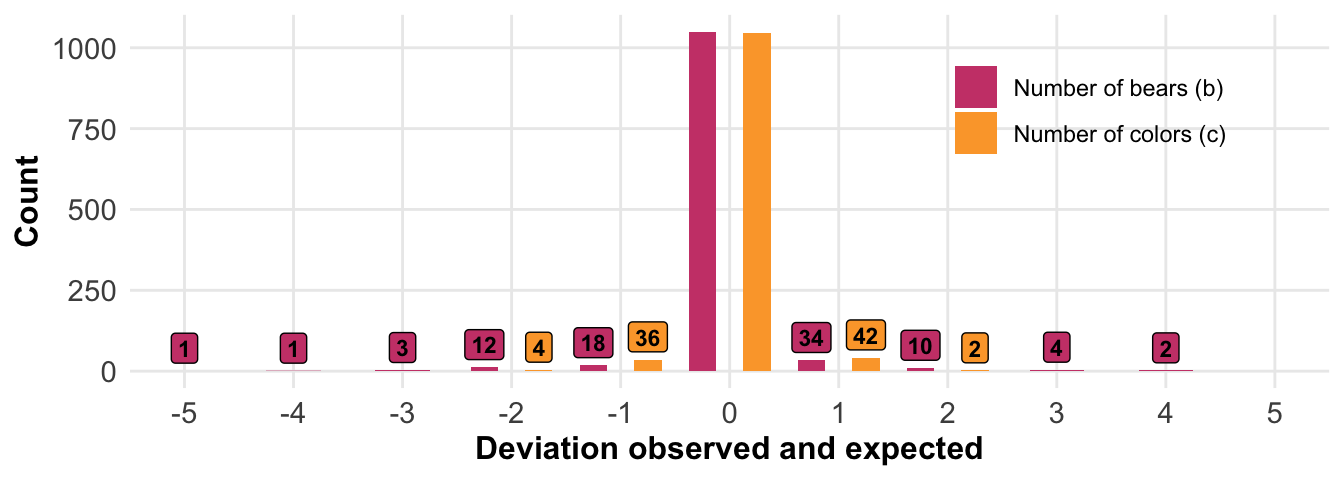
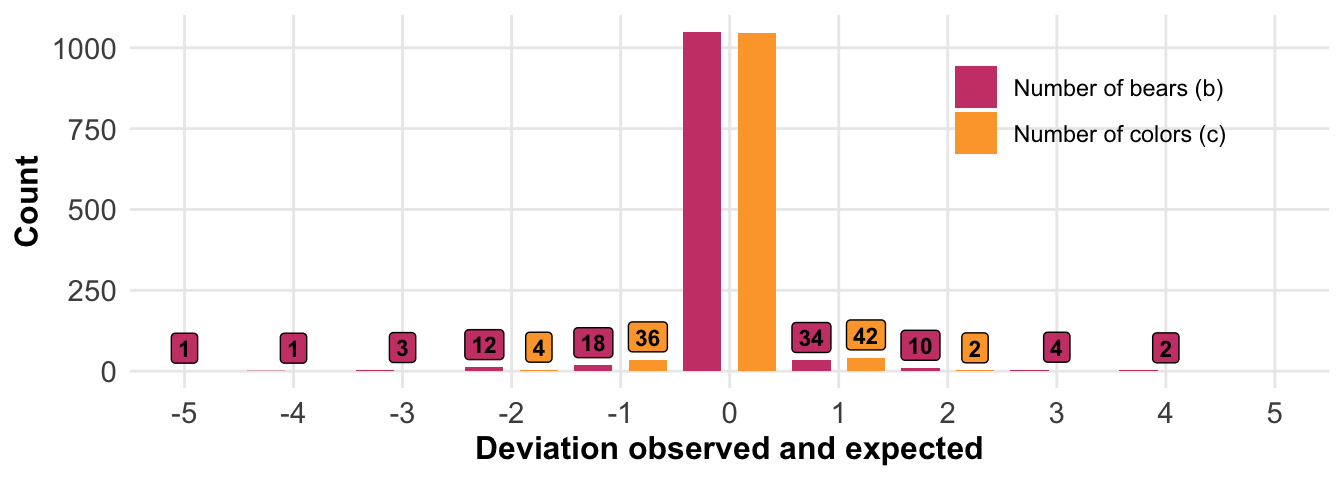
added

Changed region(s): [[0.4688, 0.0625, 0.6562, 0.7812]]

diff --git a/docs/interlude-I-gummibaers.html b/docs/interlude-I-gummibaers.html
@@ -454,7 +454,7 @@ window.Quarto = {
 </header>
 
 
-<p><em>Last modified on 04. October 2026 at 09:10:37</em></p>
+<p><em>Last modified on 04. October 2026 at 09:15:33</em></p>
 <blockquote class="blockquote">
 <p><em>“Gummy Bears! Bouncing here and there and everywhere; High adventure that’s beyond compare; They are the Gummy Bears.” — Gummy Bears Theme, Adventures of the Gummy Bears</em></p>
 </blockquote>
@@ -2426,7 +2426,7 @@ Table&nbsp;4.8: A not-so-serious table of rare events and their odds of happenin
 <span id="cb1-122"><a href="#cb1-122" aria-hidden="true" tabindex="-1"></a>  <span class="fu">ggplot</span>(<span class="fu">aes</span>(<span class="at">x =</span> values, <span class="at">fill =</span> ind)) <span class="sc">+</span></span>
 <span id="cb1-123"><a href="#cb1-123" aria-hidden="true" tabindex="-1"></a>  <span class="fu">theme_book</span>() <span class="sc">+</span></span>
 <span id="cb1-124"><a href="#cb1-124" aria-hidden="true" tabindex="-1"></a>  <span class="do">## facet_wrap(~ ind, scale = "free_x") +</span></span>
-<span id="cb1-125"><a href="#cb1-125" aria-hidden="true" tabindex="-1"></a>  <span class="fu">geom_bar</span>(<span class="at">position =</span> <span class="fu">position_dodge</span>(<span class="dv">1</span>), <span class="at">width =</span> <span class="fl">0.5</span>) <span class="sc">+</span></span>
+<span id="cb1-125"><a href="#cb1-125" aria-hidden="true" tabindex="-1"></a>  <span class="fu">geom_bar</span>(<span class="at">position =</span> <span class="fu">position_dodge</span>(<span class="dv">1</span>, <span class="at">preserve =</span> <span class="st">"single"</span>), <span class="at">width =</span> <span class="fl">0.7</span>) <span class="sc">+</span></span>
 <span id="cb1-126"><a href="#cb1-126" aria-hidden="true" tabindex="-1"></a>  <span class="fu">geom_label</span>(<span class="at">stat=</span><span class="st">'count'</span>, <span class="fu">aes</span>(<span class="at">label=</span>..count.., <span class="at">y =</span> ..count.. <span class="sc">+</span><span class="dv">70</span>), <span class="at">size =</span> <span class="dv">3</span>,</span>
 <span id="cb1-127"><a href="#cb1-127" aria-hidden="true" tabindex="-1"></a>             <span class="at">position =</span> <span class="fu">position_dodge</span>(<span class="dv">1</span>), <span class="at">show.legend =</span> <span class="cn">FALSE</span>, <span class="at">fontface =</span> <span class="dv">2</span>) <span class="sc">+</span></span>
 <span id="cb1-128"><a href="#cb1-128" aria-hidden="true" tabindex="-1"></a>  <span class="fu">scale_x_continuous</span>(<span class="at">breaks =</span> <span class="fu">seq</span>(<span class="sc">-</span><span class="dv">5</span>, <span class="dv">5</span>,<span class="dv">1</span>), <span class="at">limits =</span> <span class="fu">c</span>(<span class="sc">-</span><span class="dv">5</span>, <span class="dv">5</span>)) <span class="sc">+</span></span>
